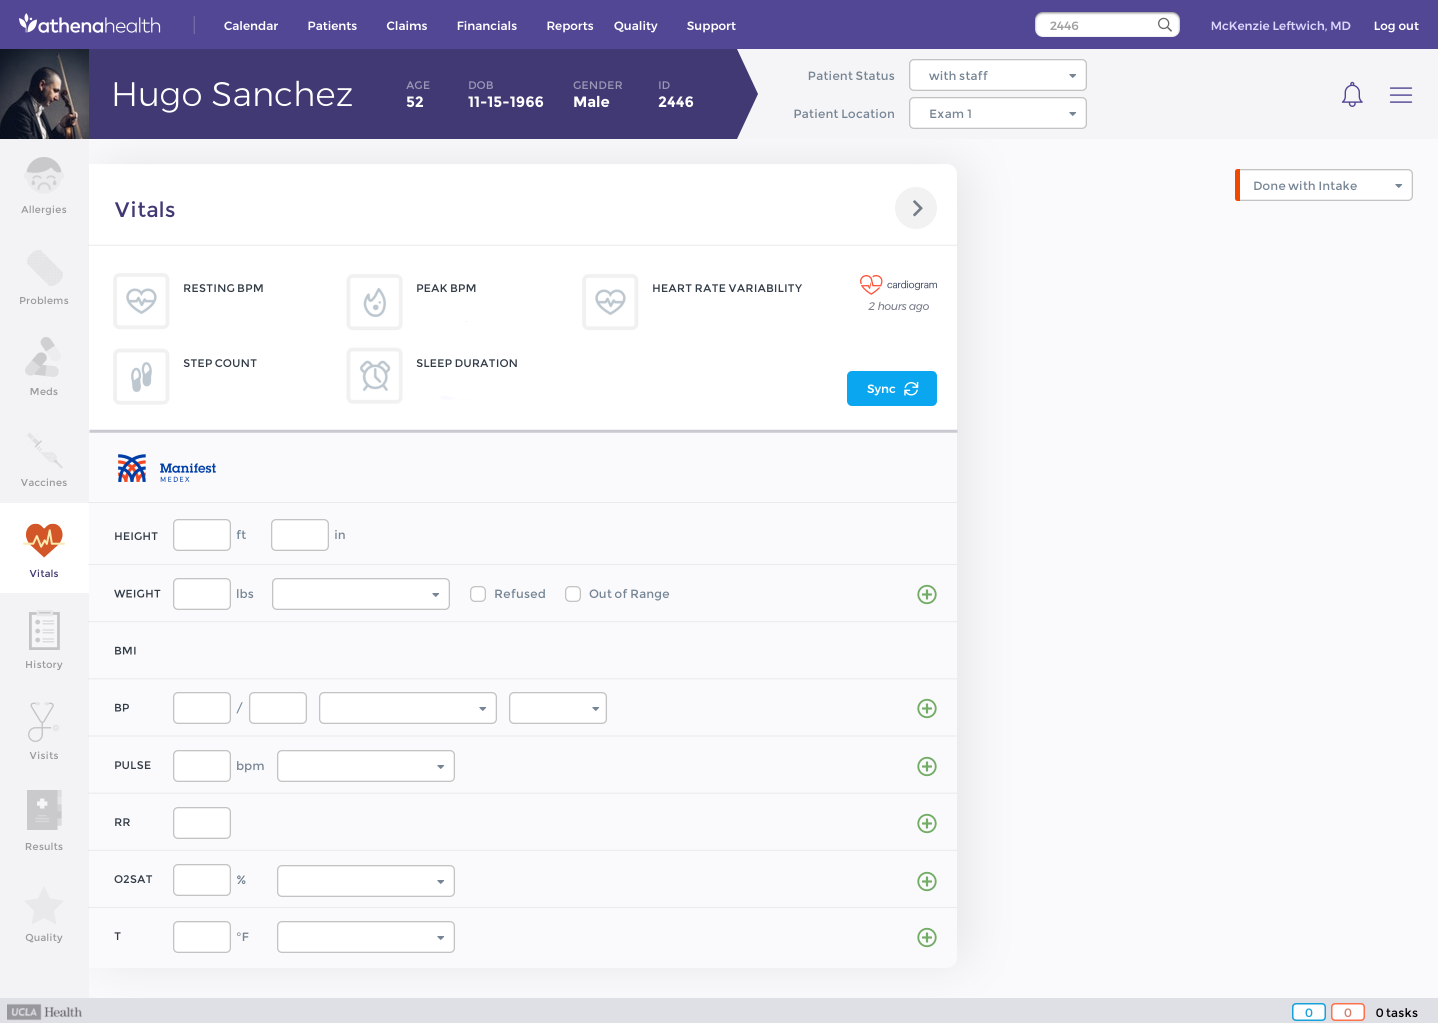
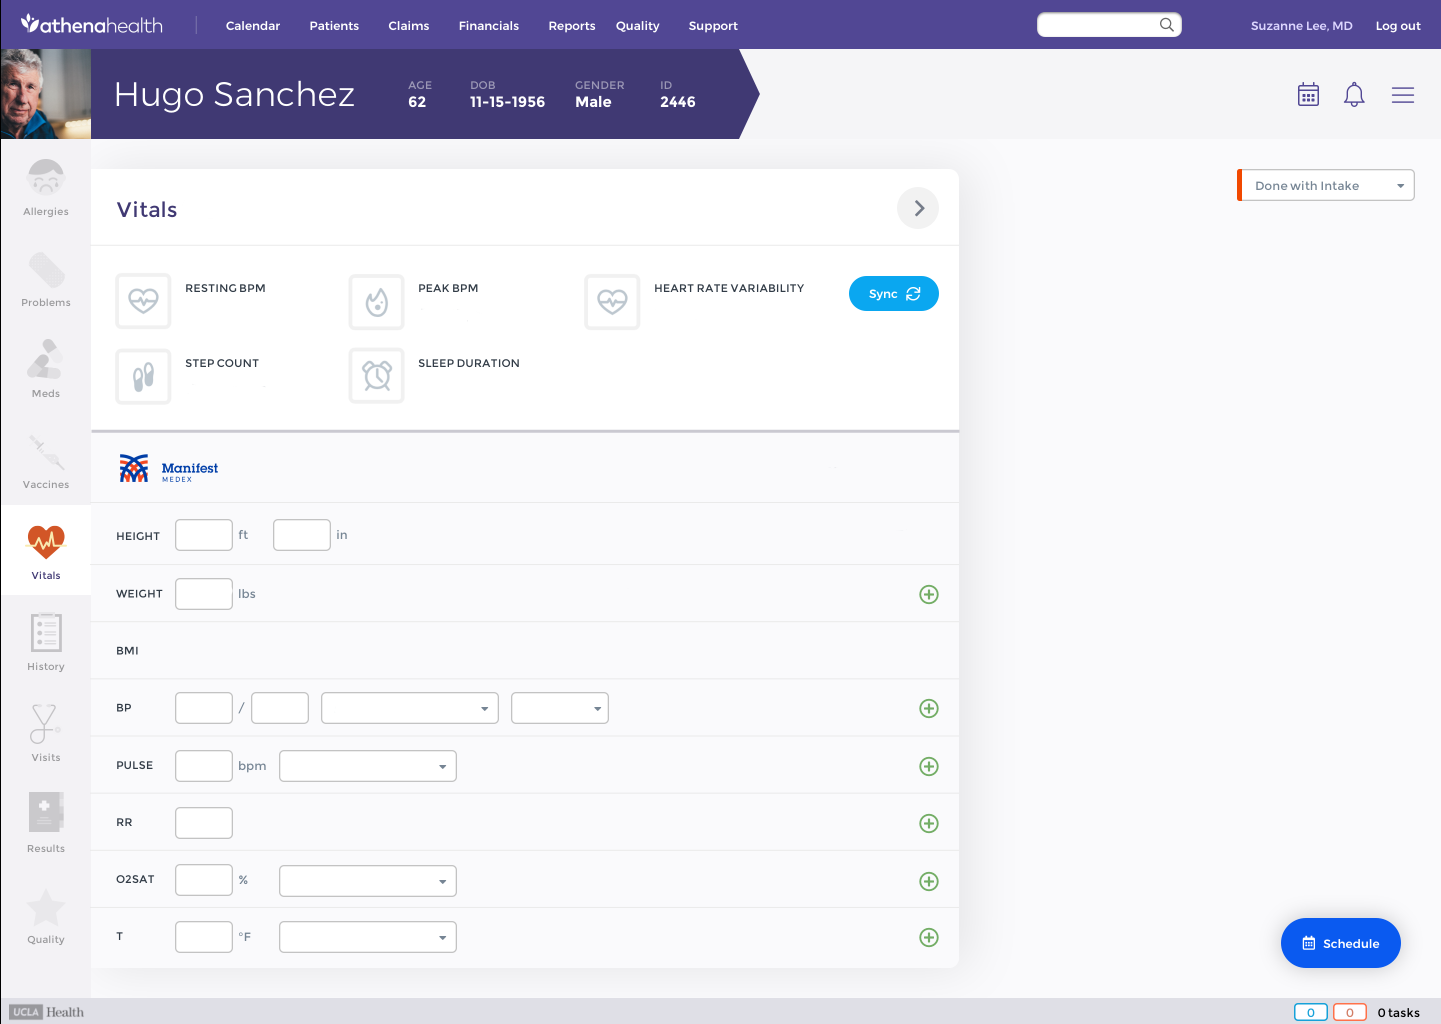
Latest design from dustin. Parse sleepHours into hours and minutes so UOM can have differnt styles

diff --git a/client/src/App.tsx b/client/src/App.tsx
@@ -1,9 +1,10 @@
 import * as React from 'react'
 import TimeAgo from 'react-timeago'
 import * as io from 'socket.io-client'
+import { Meas } from './components/Measurement'
+import { Sleep } from './components/Sleep'
 import conf from './conf'
 import page from './img/page.png'
-import { Meas } from './Measurement'
 import {IData, IMeasurement} from './models/data'
 
 import './App.css'
@@ -19,7 +20,8 @@ const initialState = {
   lastRecorded: new Date(),
   peakHeartRate: 0,
   restingHeartRate: 0,
-  sleepHours: '----',
+  sleepHours: 0,
+  sleepMinutes: 0,
   stepsCount: 0,
   weight: 0,  
 }
@@ -27,7 +29,7 @@ const initialState = {
 type State = Readonly<typeof initialState>
 
 class App extends React.Component<object, State> {
-
+  private static sleepRegEx = /((\d+)h)?\s*((\d+)m)?/ // 7h 42m
   public readonly state: State = initialState
 
   constructor(props: {}) {
@@ -64,6 +66,7 @@ class App extends React.Component<object, State> {
     const height = this.convertHeight(data.Height)
     const weight = this.convertWeight(data.Weight)
     const bmi = this.calcBMI(data.Weight, data.Height)
+    const {sleepHours, sleepMinutes} = this.parseSleep(data.SleepHours.value)
 
     const newState : any = {
       bmi,
@@ -74,7 +77,8 @@ class App extends React.Component<object, State> {
       heightInches: height.inches,
       peakHeartRate: 0,
       restingHeartRate: Number(data.RestingHeartRate.value),
-      sleepHours: data.SleepHours.value,
+      sleepHours,
+      sleepMinutes,
       stepsCount: Number(data.StepsCount.value),
       weight: weight.pounds,
     }
@@ -90,21 +94,6 @@ class App extends React.Component<object, State> {
         return {...state, changed: new Set()}
       })
     }, 2000)
-  }
-
-  // returns the names of the keys where the value has changed from the previous value
-  public findChanges(state: State, newState: State) : Set<string> {
-    const changed = new Set()
-
-    if (newState) {
-      Object.keys(newState).forEach(key => {
-        if (!(key in state) || state[key] !== newState[key]) {
-          changed.add(key)
-        }
-      })
-    }
-
-    return changed
   }
 
   public convertHeight(height: IMeasurement) : {feet: number, inches: number, captured: string} {
@@ -140,6 +129,35 @@ class App extends React.Component<object, State> {
     return 0
   }
 
+  // parses "7h 10m"  to {sleepHours: 7, sleepMinutes: 10}
+  // parses "7h"      to {sleepHours: 7, sleepMinutes: 0}
+  // parses "10m"     to {sleepHours: 0, sleepMinutes: 10}
+  public parseSleep(sleep: string) : {sleepHours: number, sleepMinutes: number} {
+    let sleepHours = 0
+    let sleepMinutes = 0
+    const match = App.sleepRegEx.exec(sleep)
+    if (match) {
+      sleepHours = Number(match[2] || 0)
+      sleepMinutes = Number(match[4] || 0)
+    }
+    return {sleepHours, sleepMinutes}
+  }
+
+  // returns the names of the keys where the value has changed from the previous value
+  public findChanges(state: State, newState: State) : Set<string> {
+    const changed = new Set()
+
+    if (newState) {
+      Object.keys(newState).forEach(key => {
+        if (!(key in state) || state[key] !== newState[key]) {
+          changed.add(key)
+        }
+      })
+    }
+
+    return changed
+  }
+
   public render() {
     return (
       <div className="App" >
@@ -148,7 +166,7 @@ class App extends React.Component<object, State> {
         <Meas name="peakHeartRate" uom="bpm" state={this.state}/>
         <Meas name="heartRateVariability" uom="ms" state={this.state} />
         <Meas name="stepsCount" uom="steps" state={this.state} />
-        <Meas name="sleepHours" state={this.state} />
+        <Sleep state={this.state} />
         <div className="lastRecorded">
           <span>Last recorded:</span>
           <span>{' '}</span>

diff --git a/client/src/App.css b/client/src/App.css
@@ -5,8 +5,8 @@
 
 .img {
   z-index: -1;
-  width: 1438px;
-  height: 1023px;
+  width: 1441px;
+  height: 1024px;
 }
 
 .restingHeartRate {
@@ -17,7 +17,7 @@
   font-family: Montserrat;
   font-size: 24px;
   font-weight: 500;
-  /*background-color: yellow; border: solid 1px black;*/
+  /* background-color: yellow; border: solid 1px black; */
 }
 
 .peakHeartRate {
@@ -50,7 +50,7 @@
   font-weight: 500;
 }
 
-.sleepHours {
+.sleep {
   position: absolute;
   top: 375px;
   left: 418px;  
@@ -67,86 +67,94 @@
   color: #757C89;
   font-family: Montserrat;
   font-size: 12px;
-  font-style: italic; 
+  font-style: italic;
 }
 
 .heightFeet {
-  width: 45px; 
+  width: 55px;
+  height: 24px; 
   position: absolute;
-  top: 528px;
-  left: 177px;  
+  top: 520px;
+  left: 176px;  
   color: #768594;	
   font-family: Montserrat;	
   font-size: 16px;		
   text-align: right;
-  line-height: 16px;
+  padding-top: 4px;
 }
 
 .heightInches {
-  width: 45px;
+  width: 55px;
+  height: 24px;
   position: absolute;
-  top: 528px;
-  left: 275px;  
+  top: 520px;
+  left: 273px;  
   color: #768594;	
   font-family: Montserrat;	
   font-size: 16px;		
   text-align: right;
-  line-height: 16px;
+  padding-top: 4px;
 }
 
 .weight {
-  width: 45px;
+  width: 55px;
+  height: 24px;
   position: absolute;
-  top: 586px;
-  left: 177px;  
+  top: 579px;
+  left: 176px;  
   color: #768594;	
   font-family: Montserrat;	
   font-size: 16px;		
   text-align: right;
-  line-height: 16px;
+  padding-top: 4px;
 }
 
 .bmi {
-  width: 45px;
+  width: 55px;
+  height: 24px;
   position: absolute;
-  top: 644px;
-  left: 177px;  
+  top: 635px;
+  left: 176px;  
   color: #768594;	
   font-family: Montserrat;	
   font-size: 16px;		
   text-align: right;
-  line-height: 16px;
+  padding-top: 4px;
 }
 
 .heartRate {
-  width: 45px;
+  width: 55px;
+  height: 24px;
   position: absolute;
-  top: 758px;
-  left: 177px;  
+  top: 751px;
+  left: 176px;  
   color: #757C89;
   font-family: Montserrat;
   font-size: 16px;
   text-align: right;
-  line-height: 16px;
+  padding-top: 4px;
 }
 
 .heartRateSource {
+  width: 150px;
+  height: 25px;
   position: absolute;
-  top: 758px;
-  left: 310px;  
+  top: 751px;
+  left: 280px;  
   color: #757C89;
   font-family: Montserrat;
   font-size: 16px;
   text-align: right;
-  line-height: 16px;
+  padding-top: 3px;
+  padding-right: 30px;
 }
 
 .sync {
   position: absolute;
   width: 100px;
-  height: 50px;
-  top: 370px;
+  height: 40px;
   left: 840px;
+  top: 275px;  
   opacity: 0;
   cursor: pointer;
 }
@@ -160,6 +168,6 @@
   }
 }
 
-.change {
+.changed {
   animation: fade 3s;
 }

diff --git a/client/src/components/Sleep.tsx b/client/src/components/Sleep.tsx
@@ -1,0 +1,37 @@
+import * as React from 'react'
+import {Component} from 'react'
+
+import './Measurement.css'
+
+interface IProps {  
+    state: {
+      sleepHours: number,
+      sleepMinutes: number,
+      changed: Set<string>
+    }
+}
+
+export class Sleep extends Component<IProps> {
+  public render() {
+    const {state} = this.props
+    const {sleepHours, sleepMinutes} = state
+    const changed = state.changed.has('sleepHours') || state.changed.has('sleepMinutes')
+    const className = `sleep ${changed ? 'changed' : ''}`
+    const list = []
+    if (sleepHours || sleepMinutes) {      
+      list.push(<span key={1}>{sleepHours}</span>)
+      list.push(<span key={2}className="uom">h</span>)
+      if (sleepMinutes) {
+        list.push(<span key={3}>{sleepMinutes}</span>)
+        list.push(<span key={4}className="uom">m</span>)
+      }
+    } else {
+      list.push("----")
+    }
+    return (
+      <div className={className}>
+        {list}
+      </div>
+    )
+  }
+}

diff --git a/client/src/components/Measurement.tsx b/client/src/components/Measurement.tsx
@@ -1,0 +1,35 @@
+import * as React from 'react'
+import {Component} from 'react'
+
+import './Measurement.css'
+
+interface IProps {
+    name: string,
+    uom?: string,    
+    state: {
+      changed: Set<string>
+    }
+}
+
+export class Meas extends Component<IProps> {
+  public render() {
+    const {name, uom, state} = this.props
+    const value = state[name]    
+    const changed = state.changed.has(name)
+    const className = `${name} ${changed ? 'changed' : ''}`
+    if (value) {
+      return (
+        <div className={className}>
+            {value}
+            <span className="uom">{uom || ''}</span>
+        </div>
+      )
+    } else {
+      return (
+        <div className={className}>
+            ----
+        </div>
+      )
+    }    
+  }
+}

diff --git a/client/src/conf.ts b/client/src/conf.ts
@@ -1,5 +1,3 @@
-const conf = {
+export default {
   host: 'ec2co-ecsel-7bx0iiddm5wr-1755561948.us-west-2.elb.amazonaws.com'
 }
-
-export default conf

diff --git a/client/src/components/Measurement.css b/client/src/components/Measurement.css
@@ -1,0 +1,5 @@
+.uom {
+  margin-left: 6px;
+  margin-right: 6px;
+  font-size: 18px;
+}
